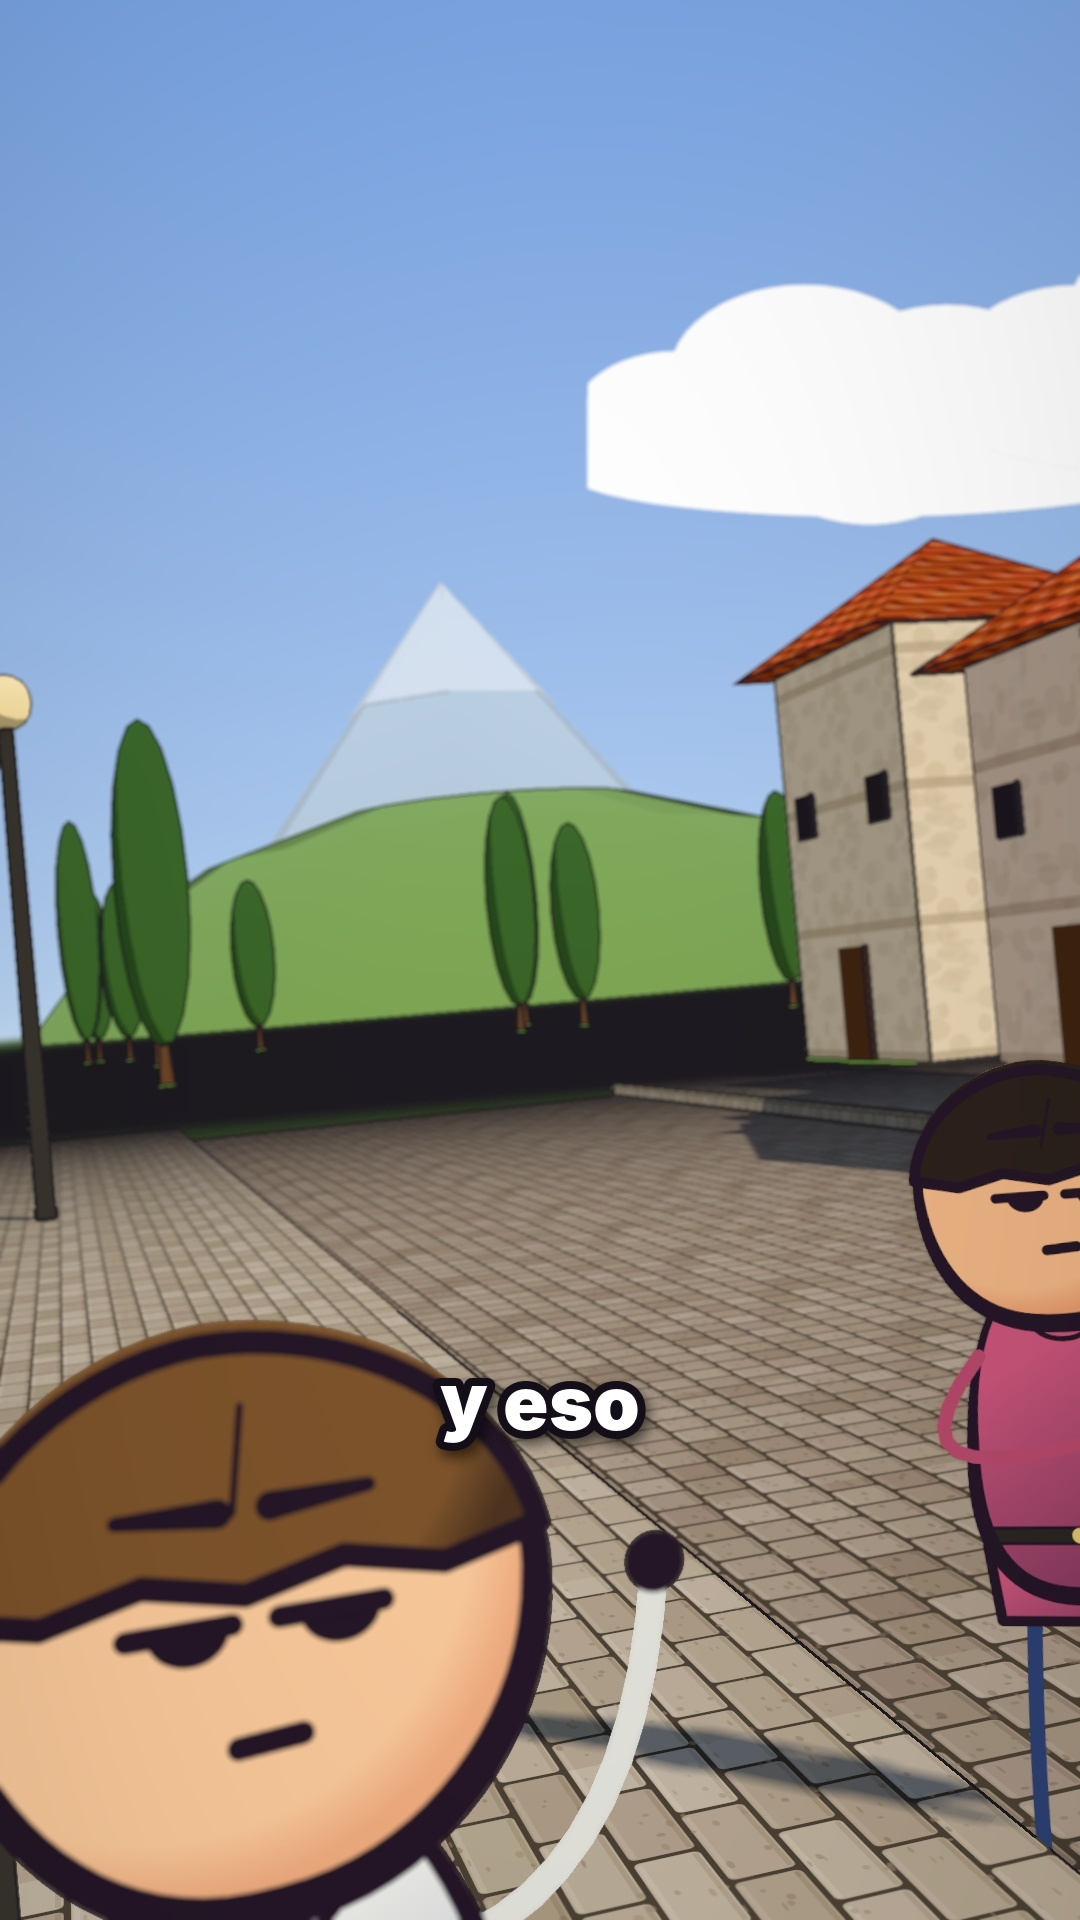
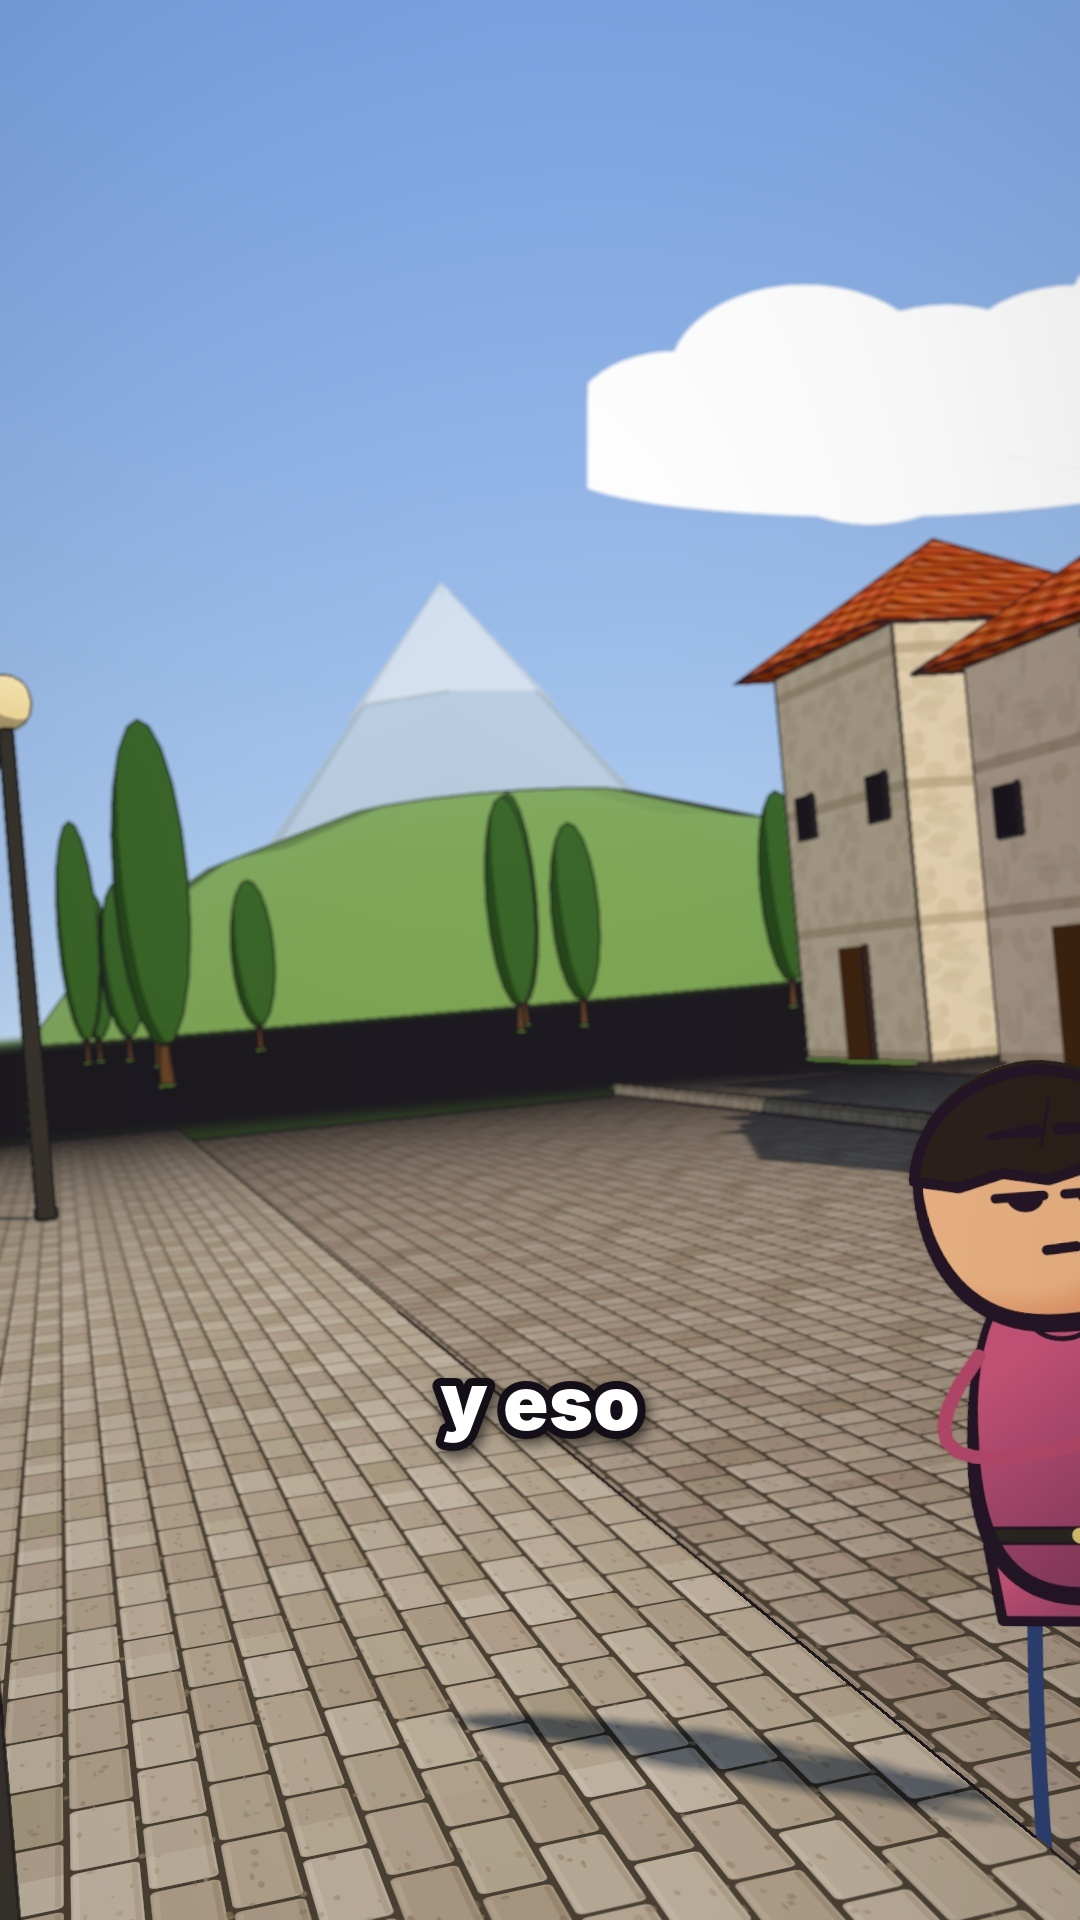
Vídeo 2 terminado: 2 MP4 (con y sin música), .srt y ficha para publicar; estado en CLAUDE.md
Claude-Session: https://claude.ai/code/session_01QLwGBqQae5xcsTQwHCHTmg

Changed region(s): [[0.0, 0.6875, 0.6417, 1.0]]

diff --git a/dibujos/videos/2-como-gana-el-banco-con-tu-tarjeta/publicar.md b/dibujos/videos/2-como-gana-el-banco-con-tu-tarjeta/publicar.md
@@ -1,0 +1,42 @@
+# Publicar — Cómo gana el banco con tu tarjeta (Inercia del Consumo)
+
+## Título
+El banco gana contigo aunque no pagues intereses 💳 #shorts
+
+## Descripción
+Pagas tu tarjeta a tiempo y nunca pagas intereses… y aun así tu banco gana contigo. 👇
+
+Cada vez que pagas con tarjeta, la tienda paga una comisión y una parte llega al banco que te dio la tarjeta. La tienda mete esas comisiones en sus precios, y los pagamos todos, también quien paga en efectivo.
+
+Datos reales:
+• En EE. UU. los comercios pagaron 172.050 millones de dólares en comisiones por tarjetas en 2023 (Nilson Report).
+• La Reserva Federal de Boston estimó que cada hogar que paga en efectivo pierde unos 149 dólares al año (Schuh, Shy y Stavins, 2010).
+• En Europa la comisión está limitada al 0,3 % (crédito) y 0,2 % (débito), pero el mecanismo es el mismo.
+
+¿Y tú, pagas con tarjeta o en efectivo? Te leo en los comentarios.
+
+#InerciaDelConsumo #economia #dinero #finanzaspersonales #tarjetadecredito #bancos #shorts
+
+## Etiquetas
+cómo gana el banco con tu tarjeta, tarjeta de crédito, comisiones tarjeta, bancos, cómo ganan dinero los bancos, intereses tarjeta, pagar con tarjeta o efectivo, tasa de intercambio, finanzas personales, educación financiera, economía, dinero, ahorro, precios, efectivo, cuota de manejo, anualidad tarjeta, Inercia del Consumo
+
+## Comentario fijado
+¿Pagas con tarjeta o en efectivo? 💳💵 Y si pagas con tarjeta: ¿sabías que la tienda paga una comisión cada vez que la usas?
+
+## Ajustes
+- Categoría: Educación · Idioma: Español
+- Audiencia: no es para niños · Contenido alterado/sintético: no (animación)
+- Miniatura del Short: el primer plano de la clienta seria (segundo 3) o el «−149 dólares al año» (segundo 51)
+
+## Hora recomendada
+Público de España y Latinoamérica: publicar entre las 18:00 y las 19:00 de España (12:00-13:00 de México, 14:00-15:00 de
+Argentina): llega a España por la tarde y a América a mediodía. Martes a jueves suelen ir mejor que el fin de semana.
+(Se ajusta con los datos del canal en docs/RESULTADOS.md cuando haya 3-5 vídeos medidos.)
+
+## Subtítulos para YouTube
+Subir out/subtitulos.srt (Subtítulos → Español → Subir archivo → Con tiempos).
+
+## Fuentes
+- Nilson Report, «Merchant Processing Fees in the United States 2023»: los comercios de EE. UU. pagaron 172.050 millones de dólares en comisiones por tarjetas en 2023 (+7,1 % frente a 2022). https://nilsonreport.com/articles/merchant-processing-fees-in-the-united-states-2023/
+- Schuh, S., Shy, O. y Stavins, J. (2010). Who Gains and Who Loses from Credit Card Payments? Theory and Calibrations. Federal Reserve Bank of Boston, Public Policy Discussion Paper 10-3 (versión revisada, ago. 2010): cada hogar que paga en efectivo transfiere 149 $ al año a los que usan tarjeta; cada hogar con tarjeta recibe 1.133 $. https://www.bostonfed.org/publications/public-policy-discussion-paper/2010/who-gains-and-who-loses-from-credit-card-payments-theory-and-calibrations.aspx
+- Reglamento (UE) 2015/751 (EUR-Lex) y Banco de España: en la UE la tasa de intercambio de las tarjetas de particulares está limitada al 0,3 % (crédito) y 0,2 % (débito). Para la descripción: en Europa la comisión es menor, pero el mecanismo es el mismo.

diff --git a/CLAUDE.md b/CLAUDE.md
@@ -22,8 +22,9 @@ Habla con el usuario en español llano, frases cortas y pasos numerados. Puede t
   3 fotos de prueba con subtítulos junto a los romanos: `dibujos/plantilla/hoja_prueba.jpg`.
 - REGLA (usuario, 21 nov 2026): espacios y personajes SOLO si el guion los nombra; nada de reutilizar lo guardado.
   `./inercia escena N` lo comprueba con `escena.lugares`/`escena.reparto` de la ficha. El profesor = narrador, solo si se pide.
-- Vídeo 2 «Cómo gana el banco con tu tarjeta» (`Textos/2 - …`, 8 pasos, 95/100): PAUSADO hasta tener el motor completo.
-  Decorado a medida hecho (dentro de la tienda + calle con el banco); falta quitar al profesor (no lo nombra el guion).
+- Vídeo 2 «Cómo gana el banco con tu tarjeta» TERMINADO (24 nov 2026): guion del usuario subido a 96/100, voz del usuario
+  (59,9 s), solo clienta y tendera, insertos 172.000 y 149, 2 MP4 a −14 LUFS + .srt + publicar.md, entregado.
+  PENDIENTE: el 26 nov pedir la captura de YouTube Studio (Participación) → `docs/RESULTADOS.md`.
 - MOTOR (21 nov 2026): plantilla genérica con `_piezas.js`, sonido genérico (`herramientas/sonido.py`), comprobación de
   escena, prueba completa con voz de espeak (`Textos/0 - Prueba del motor`, `dibujos/videos/0-prueba-del-motor/`).
 - MOTOR (23 nov 2026): traído lo mejor de Citrino/océano (instalar.sh, montaje en paralelo reanudable, subtítulos CapCut +

diff --git a/docs/RESULTADOS.md b/docs/RESULTADOS.md
@@ -18,3 +18,4 @@
 |---|---|---|---|---|---|---|---|---|
 | | | | | | | | | |
 
+| 2026-11-24 | Cómo gana el banco con tu tarjeta | | | | | | | |
